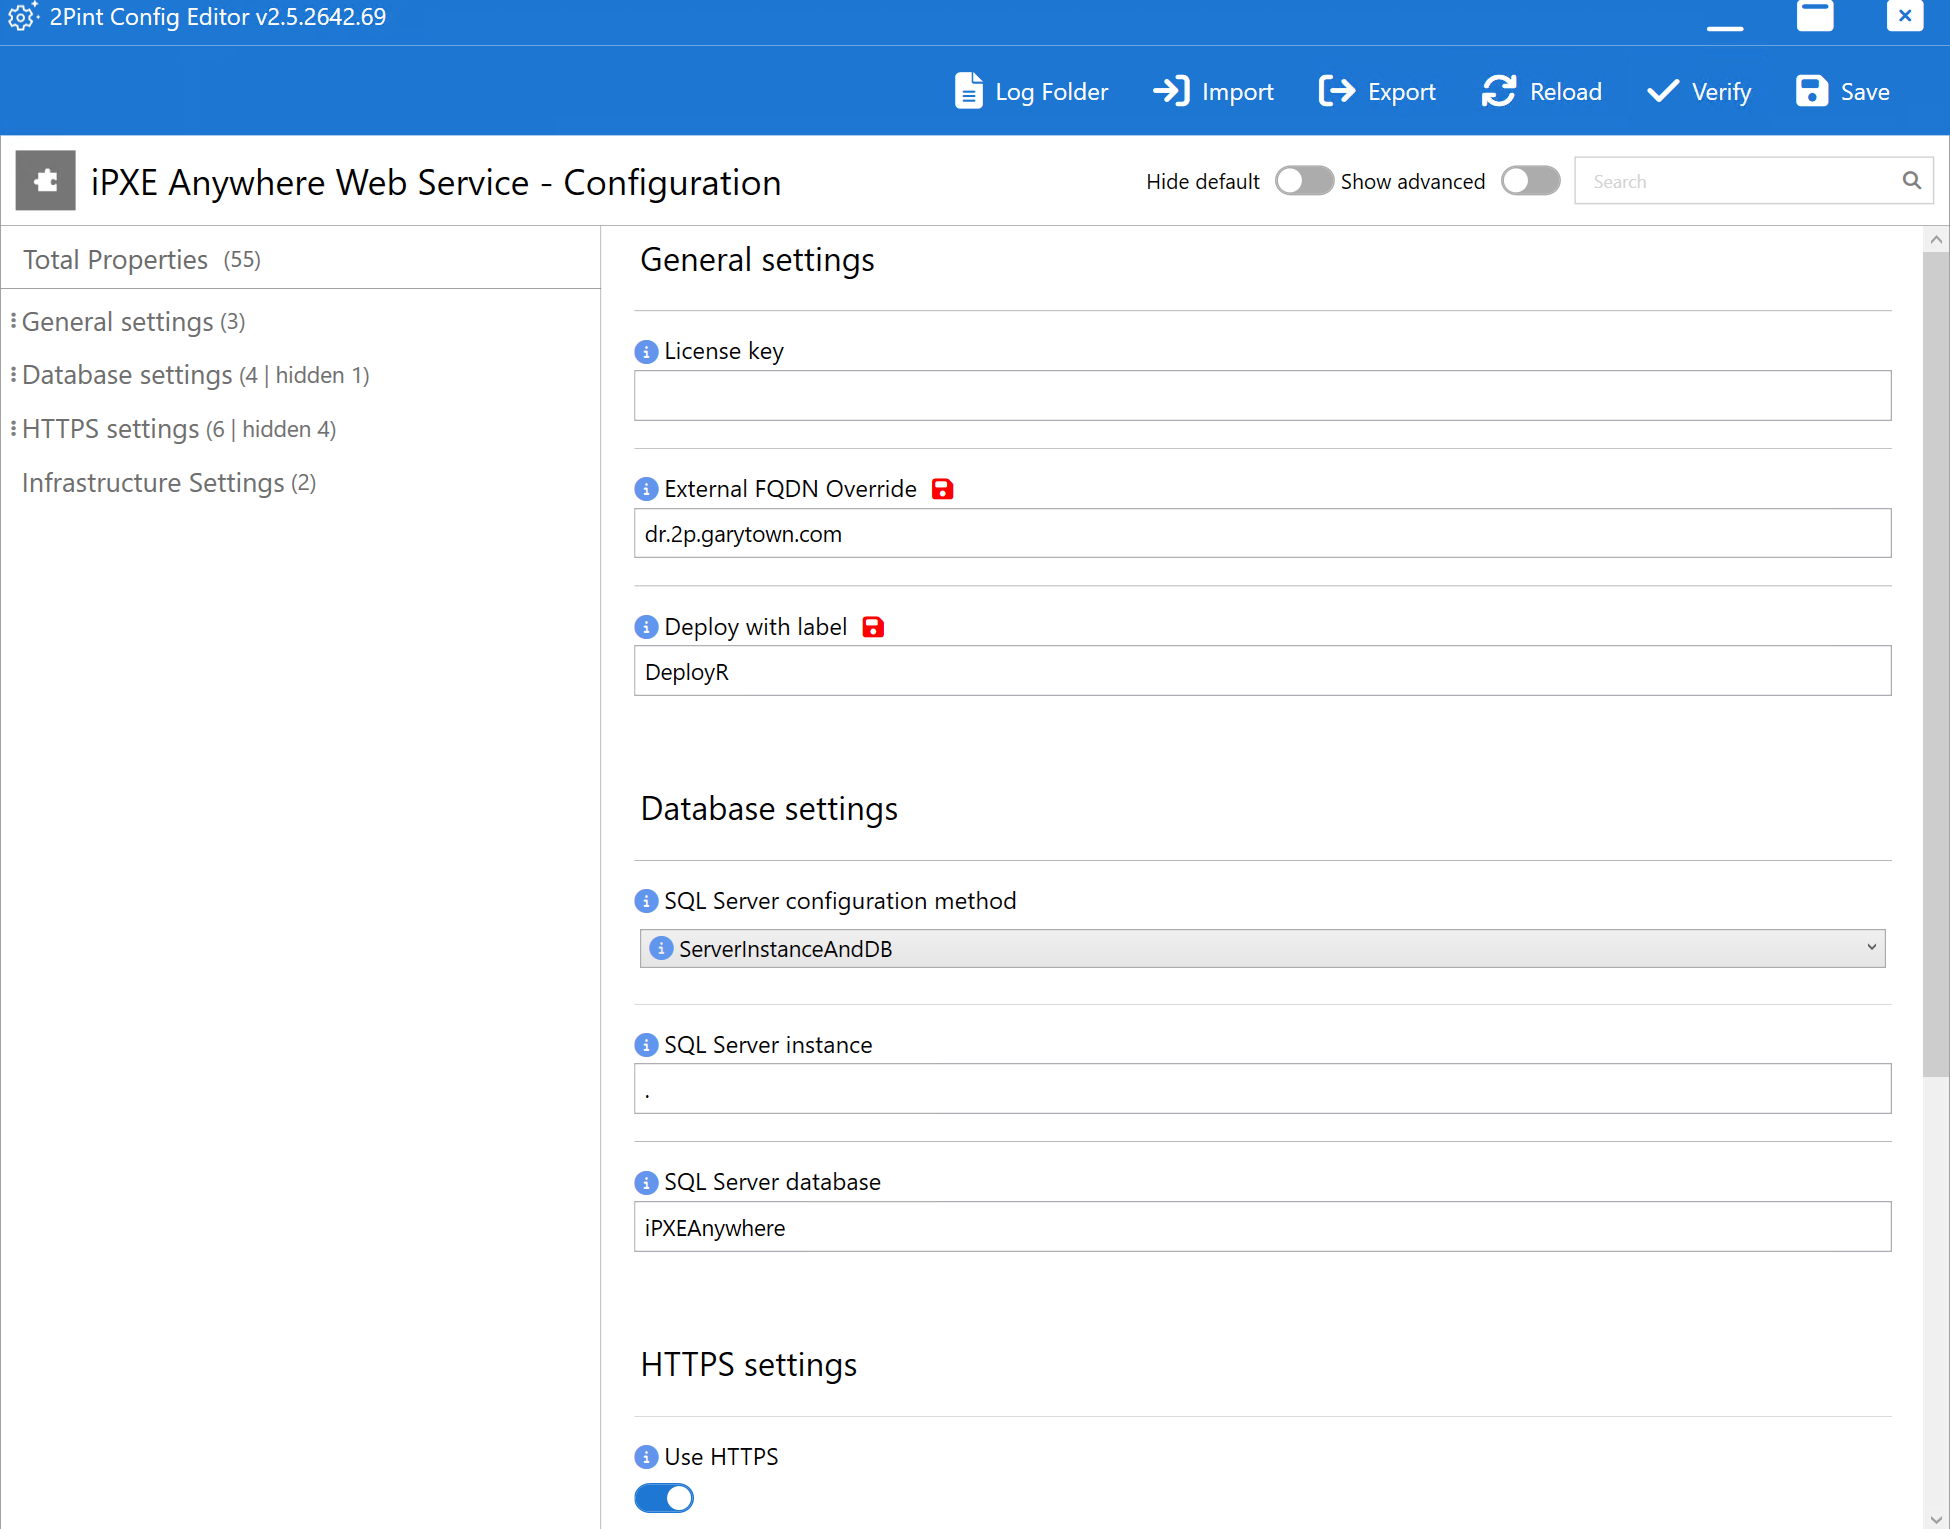
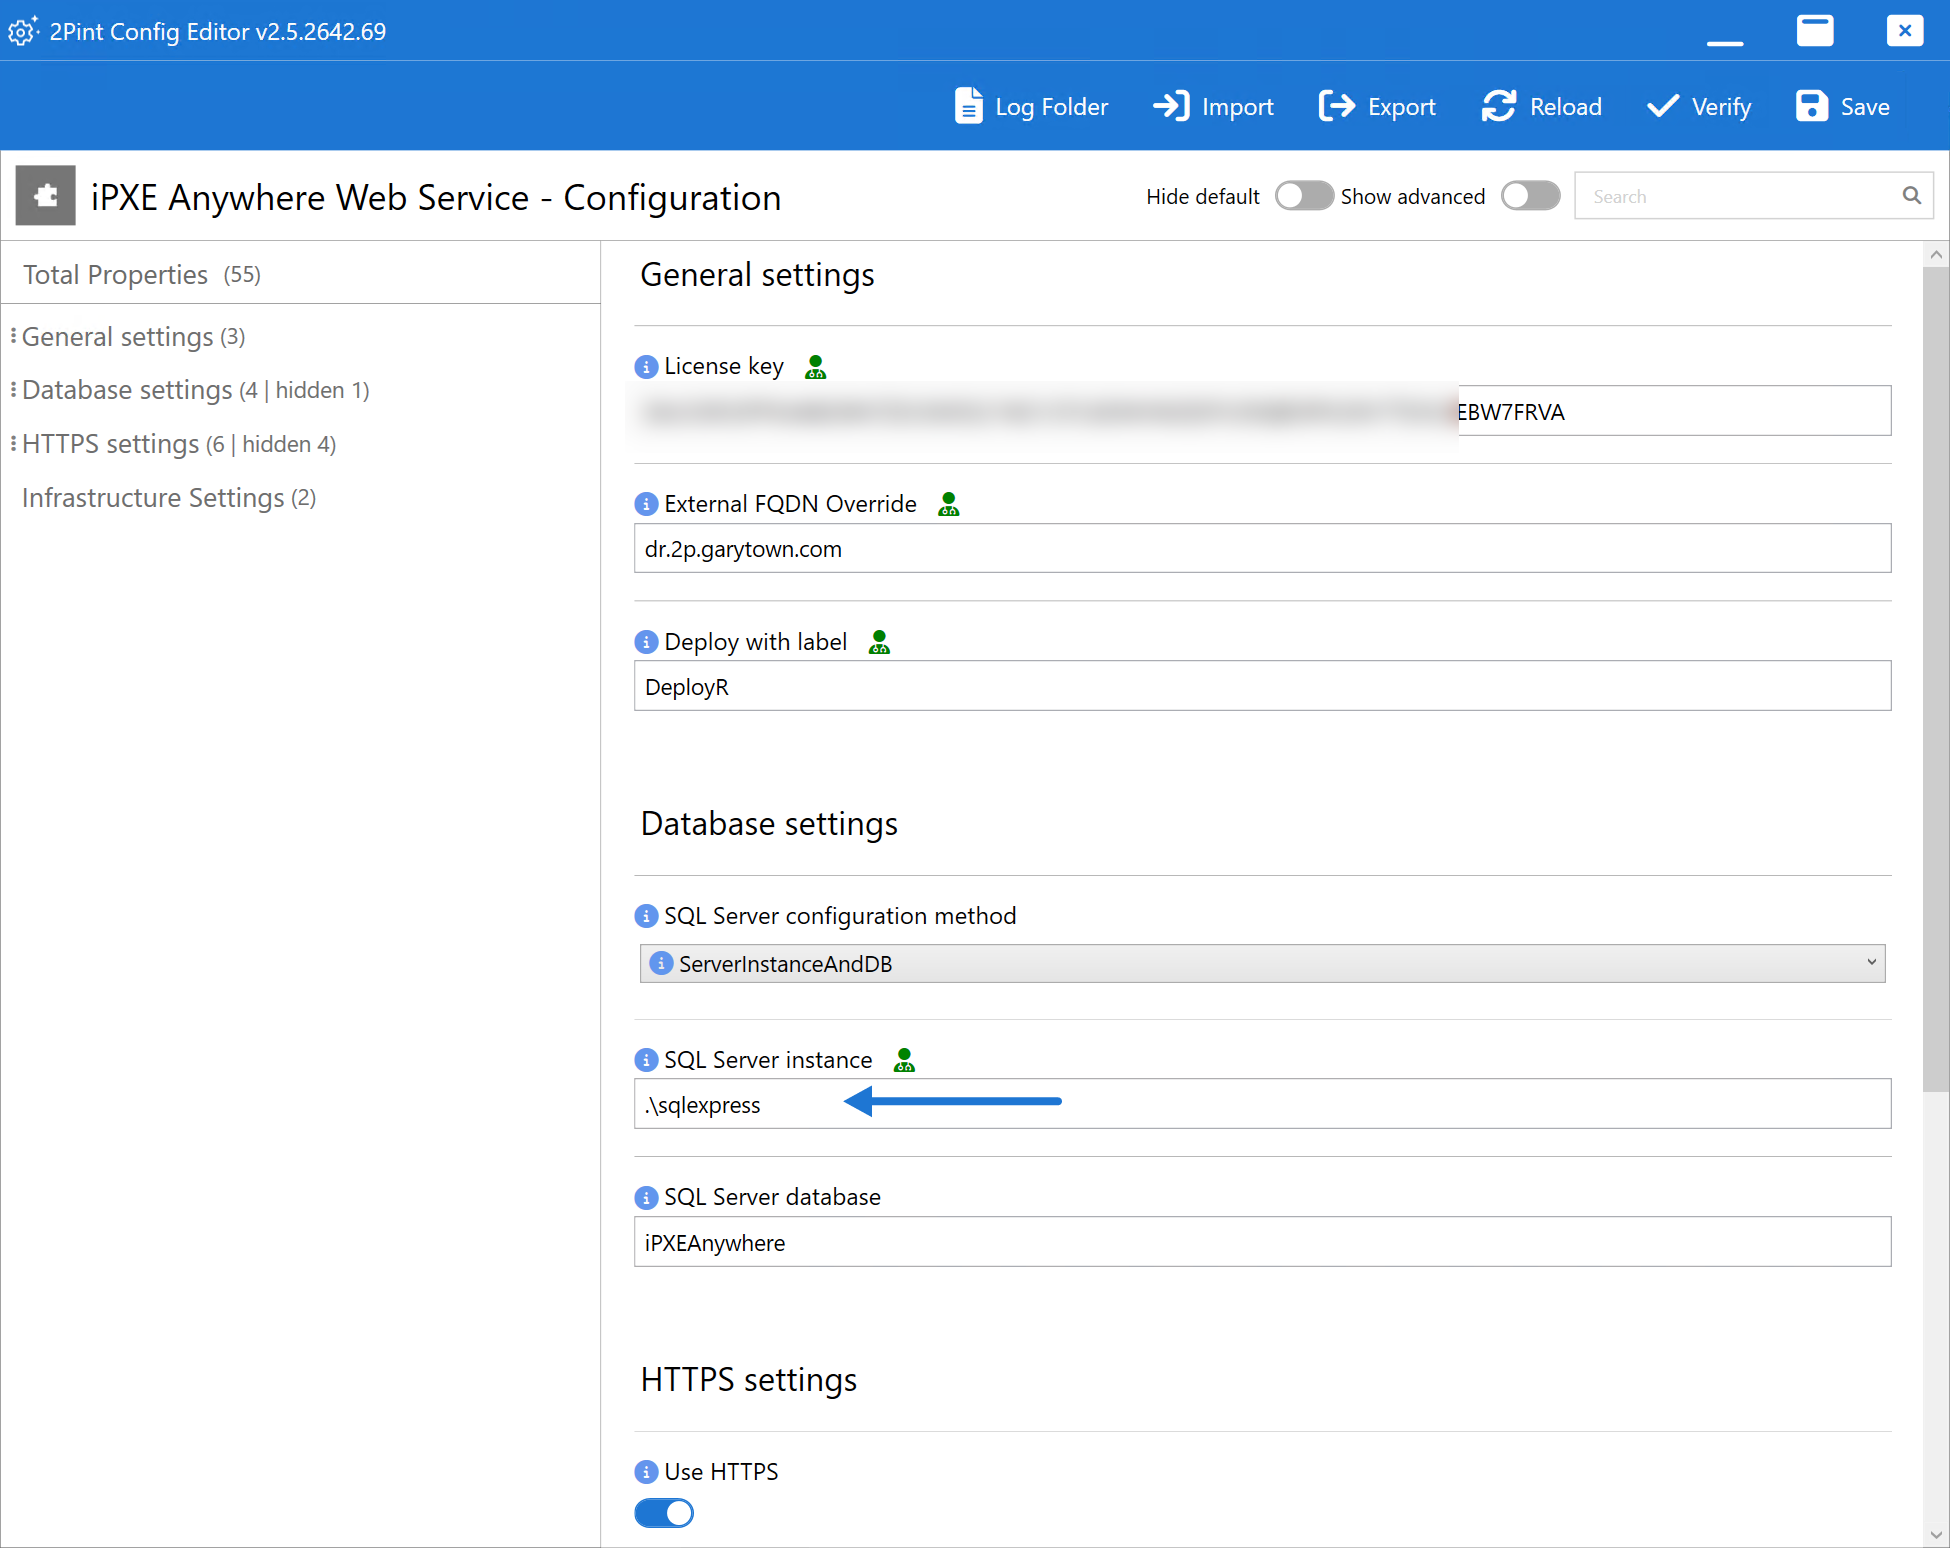
Update for DeployR

diff --git a/DeployR/SetupWalkThrough/DeployRSetup.md b/DeployR/SetupWalkThrough/DeployRSetup.md
@@ -147,7 +147,7 @@ The following configuration screenshots are shown in order. Select an image to o
 
 - **Licensing:** Enter the iPXE WebService license key in the configuration before saving.
 - **General:** External FQDN override is `dr.2p.garytown.com`, and the deploy label is `DeployR`.
-- **Database:** (DEFAULT) SQL Server configuration method is `ServerInstanceAndDB`; the server instance is `.`, and the database is `iPXEAnywhere`.
+- **Database:** (DEFAULT) SQL Server configuration method is `ServerInstanceAndDB`; the server instance is `.\sqlexpress`, and the database is `iPXEAnywhere`.
 - **HTTPS:** (DEFAULT) HTTPS is enabled, and the certificate location mechanism is set to `Auto` (DEFAULT).
 - **Infrastructure:** Infrastructure is enabled, and the StifleR Server API URL is `https://dr.2p.garytown.com:9000`.
 
@@ -212,9 +212,47 @@ Dashboard walkthrough screenshots. Select an image to open it at full size.
 
 Follow the [official DeployR Server installation guide](https://documentation.2pintsoftware.com/deployr/deployr-enterprise/deployr-server-installation) to install and configure DeployR.
 
-> Screenshot to add: DeployR Server installation and configuration.
+The following installation screenshots are shown in order. Select an image to open it at full size.
 
-Complete the verification steps in the guide and confirm the DeployR interface is reachable using the configured server name and address.
+| | | |
+| --- | --- | --- |
+| [![DeployR setup screenshot 1](media/DR01.png)](media/DR01.png) | [![DeployR setup screenshot 2](media/DR02.png)](media/DR02.png) | [![DeployR setup screenshot 3](media/DR03.png)](media/DR03.png) |
+| [![DeployR setup screenshot 4](media/DR04.png)](media/DR04.png) | [![DeployR setup screenshot 5](media/DR05.png)](media/DR05.png) | [![DeployR setup screenshot 6](media/DR06.png)](media/DR06.png) |
+
+The following configuration screenshots are shown in order. Select an image to open it at full size.  
+[![DeployR certificate and general settings](media/DRConfig01.png)](media/DRConfig01.png)  
+[![DeployR infrastructure and security settings](media/DRConfig02.png)](media/DRConfig02.png)
+
+### Configured DeployR Settings
+
+- **Certificate:** Store location is `LocalMachine`, store name is `My`, and certificate lookup uses `CertificateSubjectName` with subject `dr.2p.garytown.com`.
+- **Database and content:** Database connection method is `SQLite`; the DeployR content path is `D:\DeployRCIs`.
+- **Client URL:** `https://dr.2p.garytown.com:7281`.
+- **StifleR integration:** StifleR Server API URL is `https://dr.2p.garytown.com:9000`.
+- **Security:** Bypass authentication, bypass local authentication, and Windows authentication are disabled; the Windows group is `Administrators`.
+
+Now head back into Infrastructure Services and Approve the DeployR Server in the Dashboard
+[![DeployR infrastructure Approval](media/ApproveDR.png)](media/ApproveDR.png)
+
+Now wait awhile, grab some coffee as the DeployR service starts to build out a few things.  Looking at the DeployR Content Path, based on what was configured in the config editor, the database, as well as other folder sturctures are built out:
+
+[![DeployR Content Path](media/DRContentPath.png)](media/DRContentPath.png)
+
+Several Content Items required before generated boot media are also downloaded and DeployR Content Items generated, the process can be monitored from the logs\sync.log file:
+
+[![DeployR Content Path](media/SyncLog.png)](media/SyncLog.png)
+
+Wait for that to successfully complete before moving on.
+
+## DeployR Initial Setup
+
+The next step is to Generate a simple Boot image to text PXE, from the Dashboard, in the boot images blade, click "Generate image", it will then be queued.
+
+[![DeployR Content Path](media/BootMediaGen.png)](media/BootMediaGen.png)
+
+The process can be monitored via the log:
+
+[![DeployR Content Path](media/BootMediaGenLog.png)](media/BootMediaGenLog6..png)
 
 ## Troubleshooting Pointers
 
